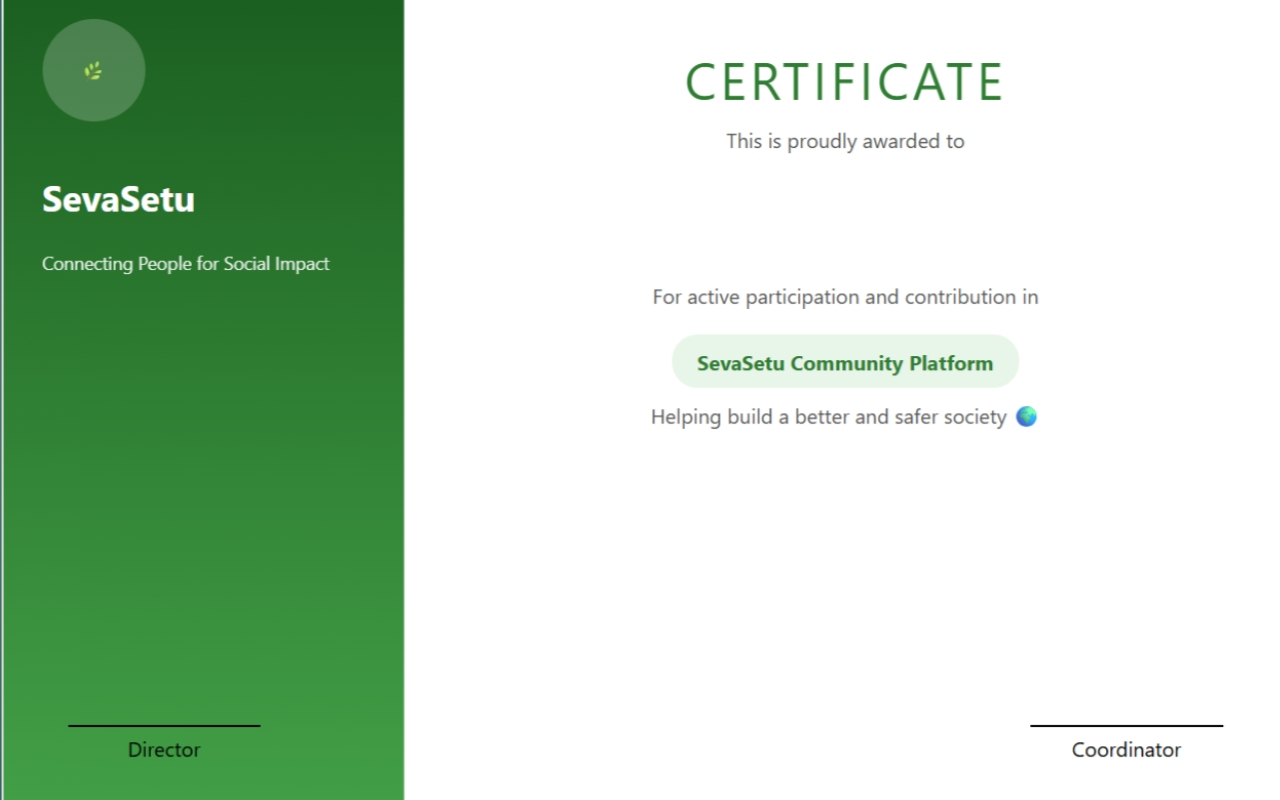
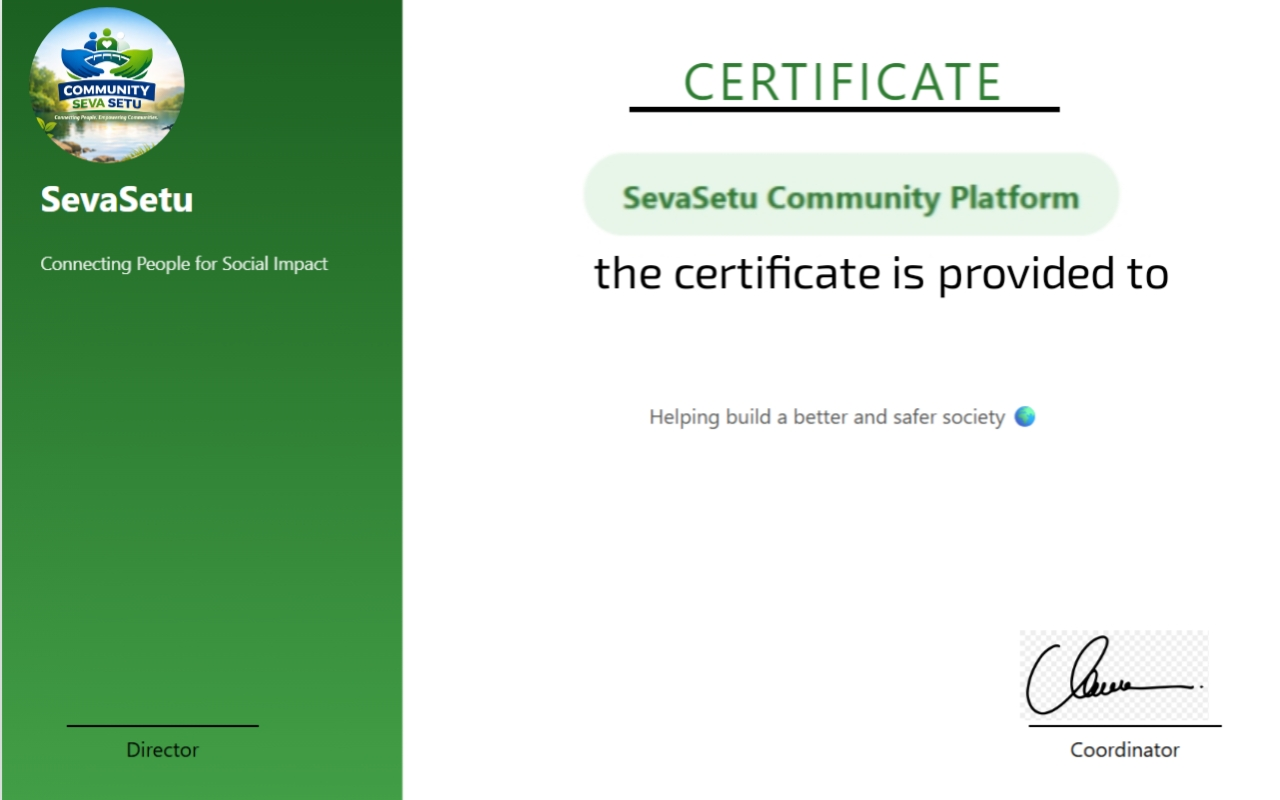
.

diff --git a/templates/certificate.html b/templates/certificate.html
@@ -1,3 +1,4 @@
+{% load static %}
 <!DOCTYPE html>
 <html>
 <head>
@@ -15,8 +16,8 @@ body {
     width: 1000px;
     height: 600px;
     position: relative;
-    background: url("file:///C:/Users/Manoraj78/Desktop/sevasetu/static/images/certificate_bg.jpeg") no-repeat center;
-    background-size: cover;
+background: url("{% static 'images/certificate_bg.jpeg' %}") no-repeat center;
+background-size: cover;    background-size: cover;
 }
 
 /* NAME */
@@ -27,6 +28,7 @@ body {
     transform: translateX(-50%);
     font-size: 38px;
     font-weight: bold;
+    margin-left: 160px;
     color: #2e7d32;
 }
 
@@ -36,13 +38,15 @@ body {
     bottom: 80px;
     left: 200px;
     font-size: 14px;
+    margin-left:-160px;
+    margin-bottom: 40px;
 }
 
-/* BADGE */
 .badge {
     position: absolute;
     top: 360px;
     left: 50%;
+    margin-left: 170px;
     transform: translateX(-50%);
     font-size: 16px;
     color: #333;
